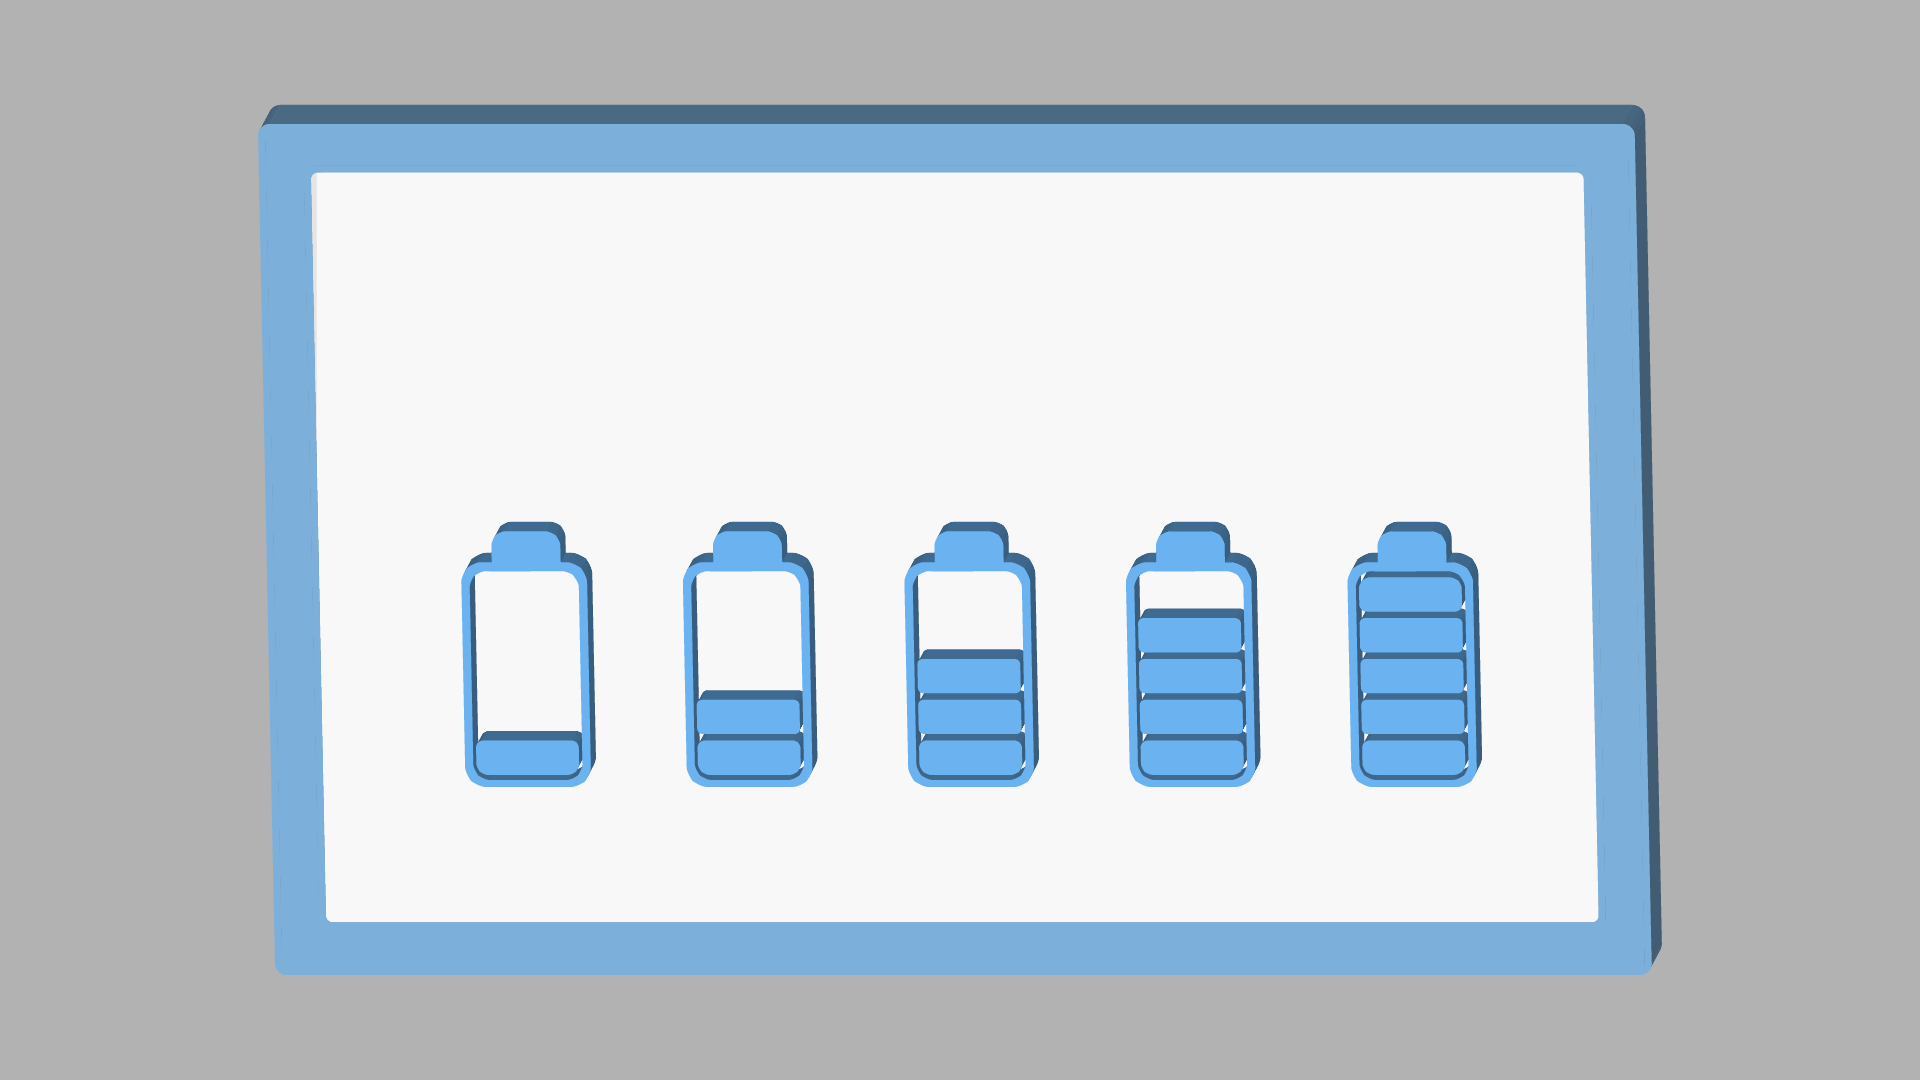
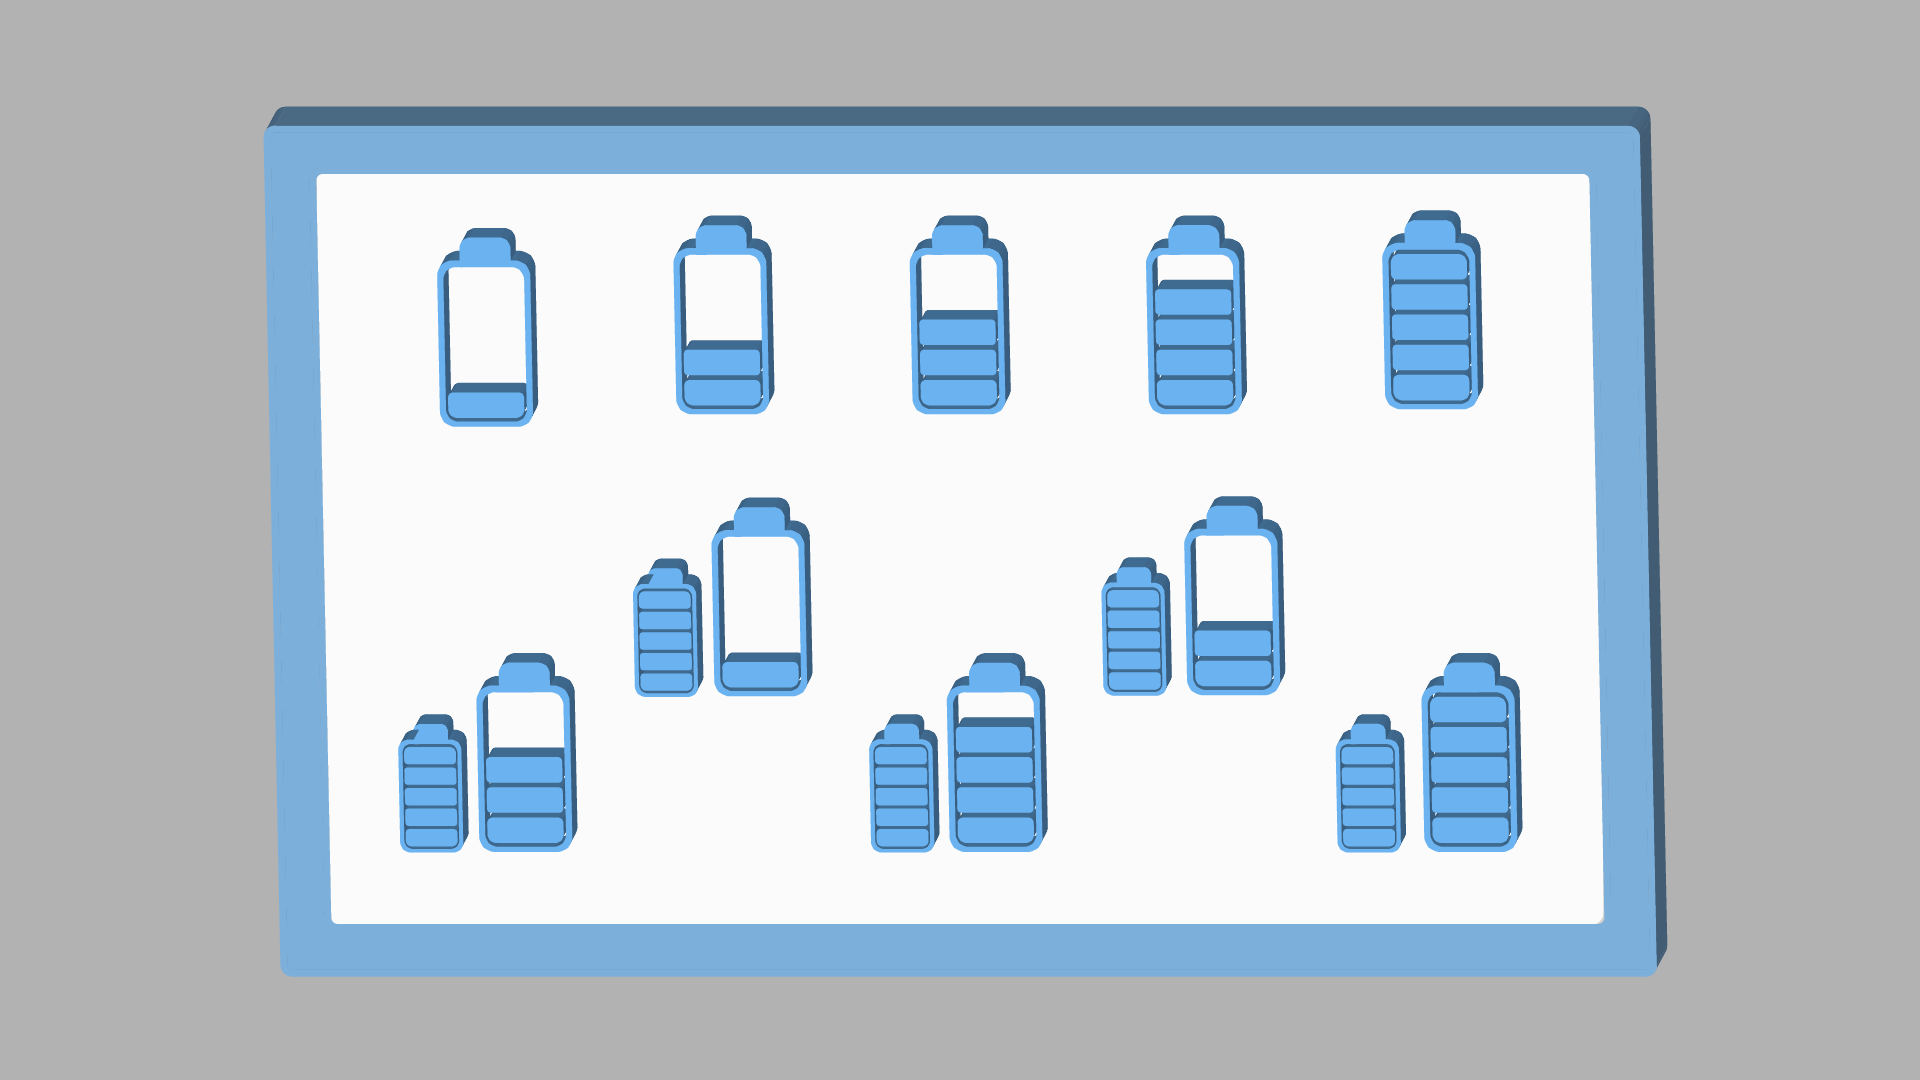
More More!!

diff --git a/src/Logica.java b/src/Logica.java
@@ -52,7 +52,7 @@ public class Logica implements Observer {
 		col = 0;
 
 		ui = new Ui(app, 1);
-		//Change for Start
+		// Change for Start
 		scene = 0;
 		changeScene(scene);
 		initCasas();
@@ -185,33 +185,32 @@ public class Logica implements Observer {
 	public void update(Observable o, Object arg) {
 		if (arg instanceof Validation) {
 			Validation val = (Validation) arg;
-			//Enable
+			// Enable
 			if (val.getType() == 1) {
 				turn = true;
-				//System.out.println("ES EL TURNO PARA KNOW DA WAE!!");
 				System.out.println("Turno Habilitado");
-				//addCasaEnabled = true;
-				//askEnergyEnabled = true;
+				// addCasaEnabled = true;
+				// askEnergyEnabled = true;
 			}
-			//Disable
+			// Disable
 			if (val.getType() == 2) {
 				turn = false;
 				addCasaEnabled = false;
 				askEnergyEnabled = false;
 				System.out.println("Turno Deshabilitado");
 			}
-			//GetEnergy
+			// GetEnergy
 			if (val.getType() == 4) {
 				bateria.recibirCarga(val.getEnergy());
 			}
-			//Someone died
+			// Someone died
 			if (val.getType() == 7) {
-				//GAMEOVER
+				// GAMEOVER
 				turn = false;
 				addCasaEnabled = false;
 				askEnergyEnabled = false;
 			}
-			//Start Game
+			// Start Game
 			if (val.getType() == 8) {
 				changeScene(1);
 			}
@@ -298,7 +297,7 @@ public class Logica implements Observer {
 				return;
 			}
 		}
-		if(askEnergyEnabled == true) {
+		if (askEnergyEnabled == true) {
 			// Metodo Pedir energia
 			sendEnergyRequest();
 			askEnergyEnabled = false;
@@ -335,11 +334,11 @@ public class Logica implements Observer {
 		int caso = bateria.getCaso();
 		if (caso <= 2) {
 			System.out.println("Upgradeseando Bateria");
-			if(energiaTotal>= bateria.getCosto()) {
-			bateria.donarEnergia(bateria.getCosto());
-			bateria.setCaso(caso+1);
-			bateria.mejorar();
-			collectData();
+			if (energiaTotal >= bateria.getCosto()) {
+				bateria.donarEnergia(bateria.getCosto());
+				bateria.setCaso(caso + 1);
+				bateria.mejorar();
+				collectData();
 			} else {
 				System.out.println("No hay luka");
 			}
@@ -360,36 +359,45 @@ public class Logica implements Observer {
 	public void sendEnergyRequest() {
 		Validation tempVal = new Validation(true, 3, 0);
 		// 20%
-		if (app.mouseX < app.width/5) {
+		if (app.dist(app.mouseX, app.mouseY, 450, 305) < 60) {
 			tempVal.setEnergy((int) (capacidadTotal * 0.20));
 			System.out.println("Pedidos 20%");
+
 		}
 		// 40%
-		if (app.mouseX < (app.width/5)*2 && app.mouseX <= (app.width/5)) {
+		if (app.dist(app.mouseX, app.mouseY, 687, 299) < 60) {
 			tempVal.setEnergy((int) (capacidadTotal * 0.4));
 		}
 		// 60%
-		if (app.mouseX < (app.width/5)*3 && app.mouseX <= (app.width/5)*2) {
+		if (app.dist(app.mouseX, app.mouseY, 923, 299) < 60) {
 			tempVal.setEnergy((int) (capacidadTotal * 0.6));
 		}
 		// 80%
-		if (app.mouseX < (app.width/5)*4 && app.mouseX <= (app.width/5)*3) {
+		if (app.dist(app.mouseX, app.mouseY, 1157, 299) < 60) {
 			tempVal.setEnergy((int) (capacidadTotal * 0.8));
 		}
 		// 100%
-		if (app.mouseX < (app.width/5)*5 && app.mouseX <= (app.width/5)*4) {
+		if (app.dist(app.mouseX, app.mouseY, 1392, 299) < 60) {
 			tempVal.setEnergy((int) (capacidadTotal * 1));
 		}
-		// 150%
-		if (true) {
-			tempVal.setEnergy((int) (capacidadTotal * 1.50));
+		// 120%
+		if (app.dist(app.mouseX, app.mouseY, 451, 748) < 80) {
+			tempVal.setEnergy((int) (capacidadTotal * 1.20));
 		}
-		// 175%
-		if (true) {
-			tempVal.setEnergy((int) (capacidadTotal * 1.75));
+		// 140%
+		if (app.dist(app.mouseX, app.mouseY, 691, 581) < 80) {
+			tempVal.setEnergy((int) (capacidadTotal * 1.4));
+		}
+		// 160%
+		if (app.dist(app.mouseX, app.mouseY, 923, 743) < 80) {
+			tempVal.setEnergy((int) (capacidadTotal * 1.6));
+		}
+		// 180%
+		if (app.dist(app.mouseX, app.mouseY, 1165, 584) < 80) {
+			tempVal.setEnergy((int) (capacidadTotal * 1.8));
 		}
 		// 200%
-		if (true) {
+		if (app.dist(app.mouseX, app.mouseY, 1398, 745) < 80) {
 			tempVal.setEnergy((int) (capacidadTotal * 2));
 		}
 

diff --git a/src/Ui.java b/src/Ui.java
@@ -154,9 +154,7 @@ public class Ui {
 		//System.out.println("Estacioncita: " + estacion	);
 		
 		app.image(mainHud, app.width / 2, app.height / 2);
-		/*if (log.isTurn() == true) {
-		app.text("ES EL TURNO DA WAE!!!!", app.width/2, app.height/2);	
-		}*/
+		
 		pintarIconoEstacion();
 		pintarBotones();
 	}

diff --git a/src/Communicacion.java b/src/Communicacion.java
@@ -12,7 +12,7 @@ public class Communicacion implements Runnable {
 	private int id;
 
 	private final static int PORT = 5000;
-	private final static String ADDRESS = "172.30.166.81";
+	private final static String ADDRESS = "172.30.157.254";
 	private boolean life;
 
 	public Communicacion() {

diff --git a/src/Bateria.java b/src/Bateria.java
@@ -14,7 +14,7 @@ public class Bateria {
 		caso = 0;
 		app = _app;
 		costo = 1500;
-		//carga = 2000;
+		carga = 500;
 	}
 
 	public void recibirCarga(int _energia) {
